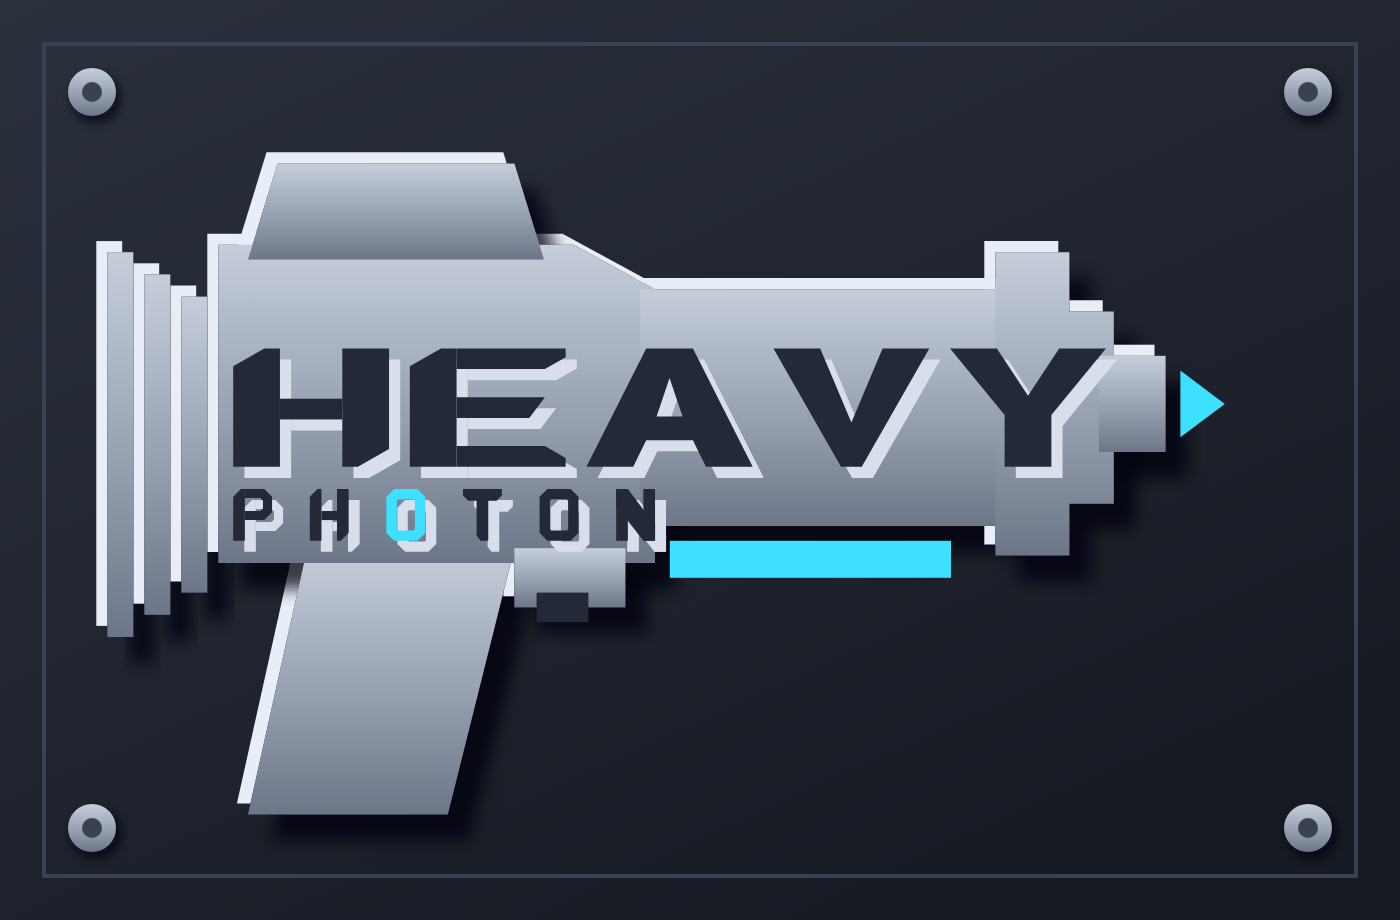
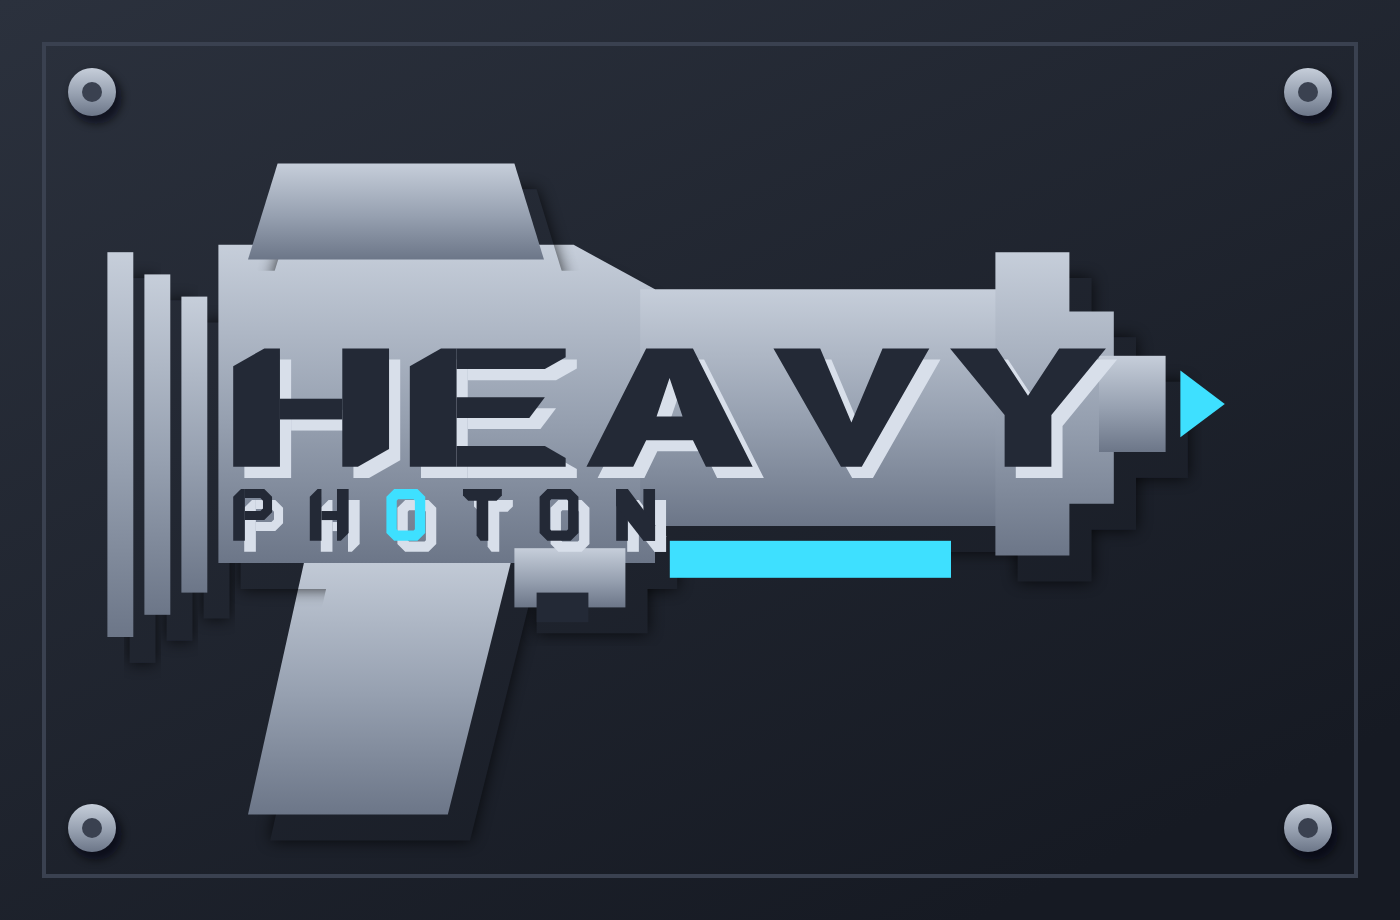
Remove white rim-light from steel compact gun
The highlight copies bled light around the silhouette edges; the steel
gradient, drop shadow, and letter deboss carry the depth without them.

Claude-Session: https://claude.ai/code/session_01GDhheF8L6mvevw6cngMkTc

diff --git a/branding/genlogos.py b/branding/genlogos.py
@@ -727,15 +727,15 @@ def raygun_v2_compact_steel():
                    f'<rect x="-2000" y="-2000" width="6000" height="6000" '
                    f'fill="#fff"/>'
                    f'<g fill="#000">{silhouette}</g></mask>')
-    # per-object groups: each part stacks its own shadow/highlight/face
+    # per-object groups: each part stacks its own shadow + face (no white
+    # rim-light copies - the gradient, drop shadow, and letter deboss carry
+    # the depth without light bleeding out around the silhouette)
     objs = []
     for name, el in COMPACT_SHAPES:
         objs.append(
             f'<g id="{name}">'
-            f'<g mask="url(#gunout)">'
-            f'<g fill="#04060A" opacity="0.75" filter="url(#soften3)" '
-            f'transform="translate(6 7)">{el}</g>'
-            f'<g fill="#E8EEF7" transform="translate(-3 -3)">{el}</g></g>'
+            f'<g mask="url(#gunout)" fill="#04060A" opacity="0.75" '
+            f'filter="url(#soften3)" transform="translate(6 7)">{el}</g>'
             f'<g fill="url(#steel3)">{el}</g>'
             f'{compact_extras(name, CYAN, "#232936")}</g>')
     # debossed words: each glyph group stacks its highlight + dark stamp
